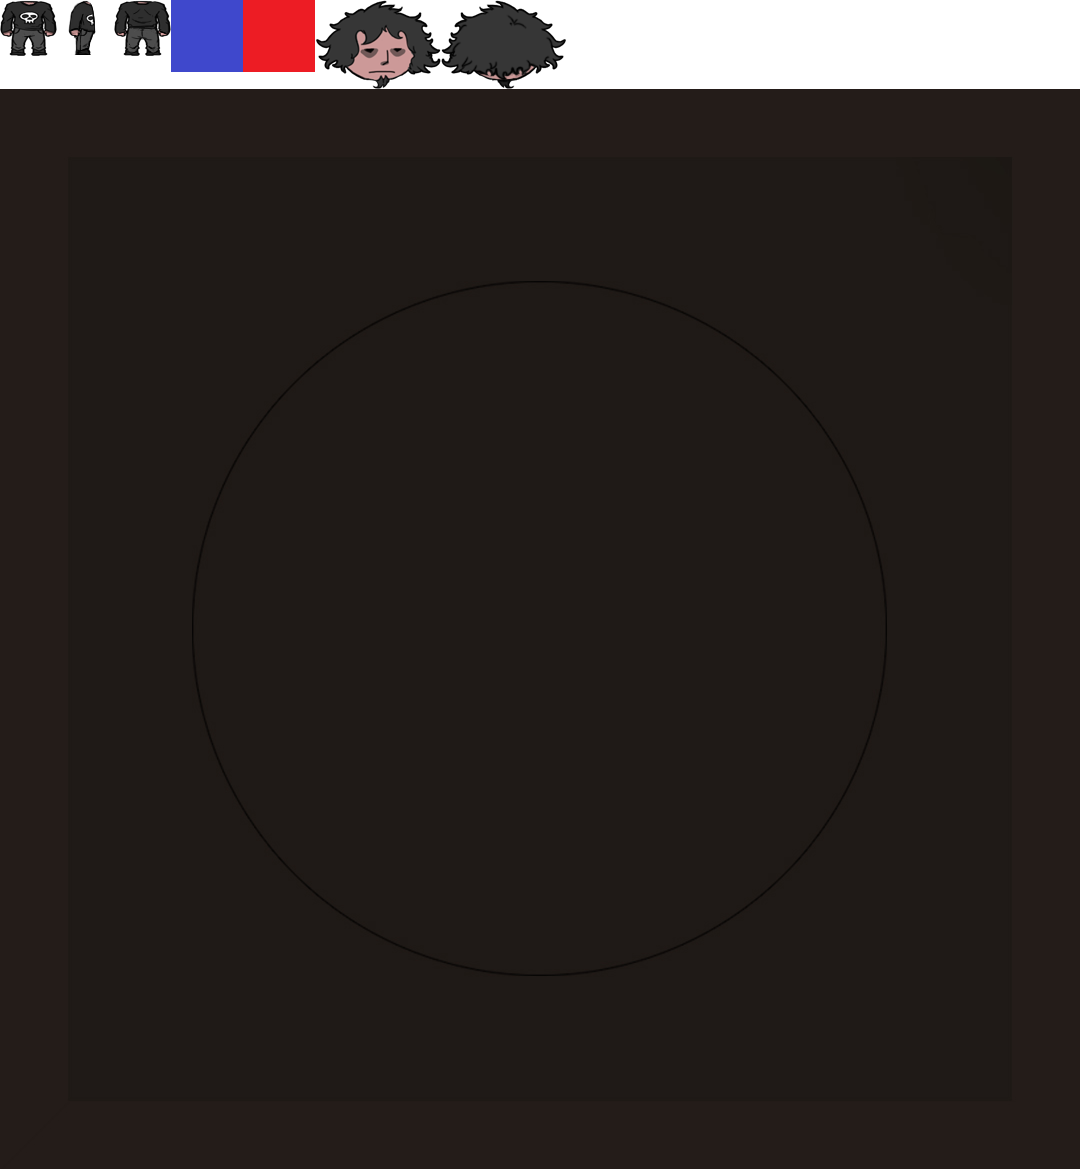
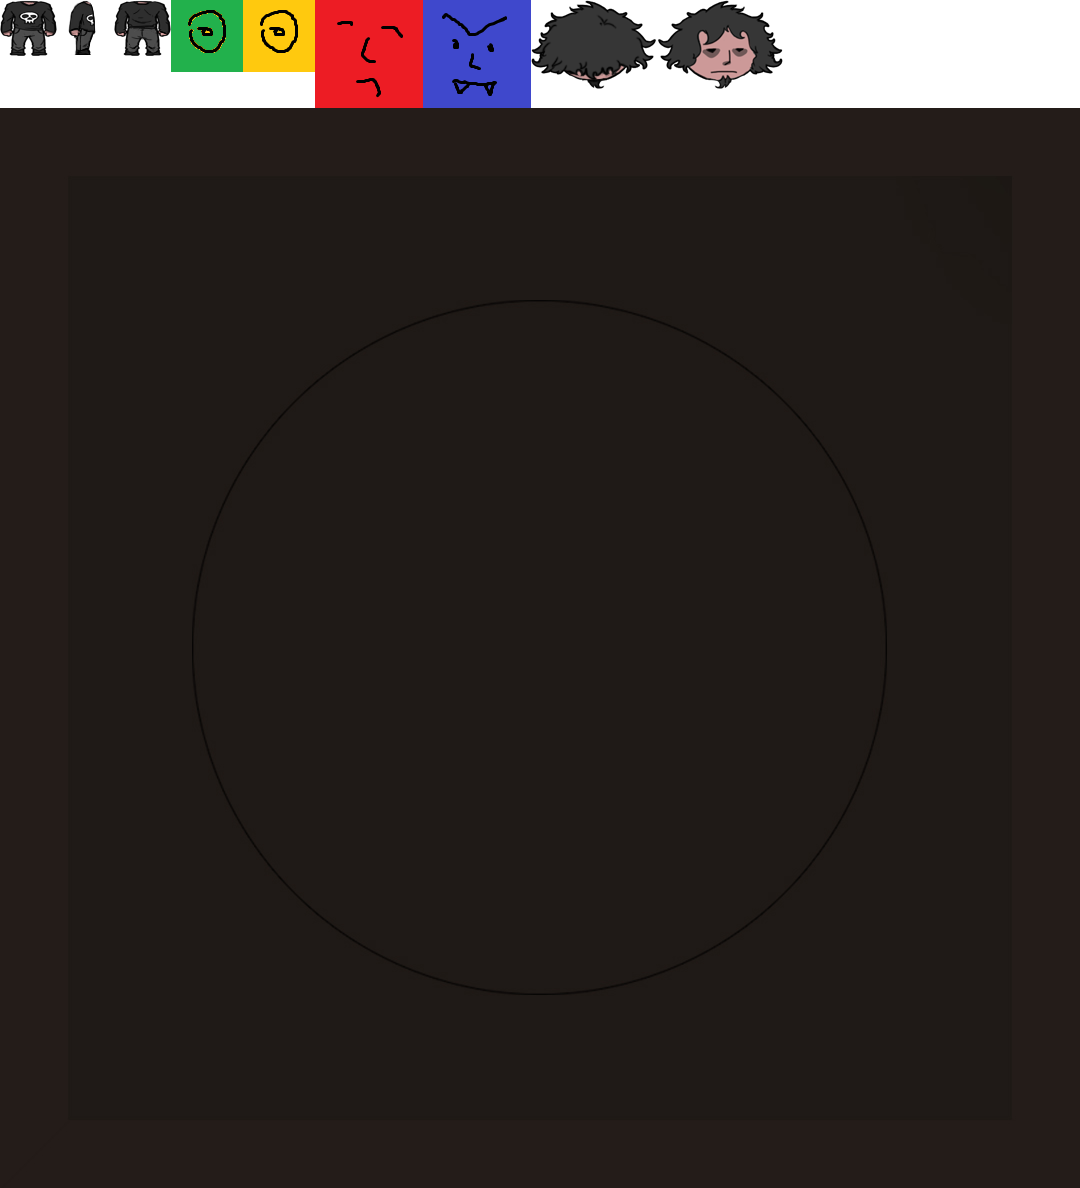
Targets and little graphics.

Changed region(s): [[0.0, 0.0, 1.0, 0.0924]]

diff --git a/core/src/com/retrom/ggj2016/game/World.java b/core/src/com/retrom/ggj2016/game/World.java
@@ -8,9 +8,11 @@ import com.badlogic.gdx.Input;
 import com.badlogic.gdx.graphics.g2d.SpriteBatch;
 import com.badlogic.gdx.graphics.glutils.ShapeRenderer;
 import com.badlogic.gdx.math.Vector2;
+import com.retrom.ggj2016.assets.Assets;
 import com.retrom.ggj2016.objects.BouncingBallEnemy;
 import com.retrom.ggj2016.objects.Enemy;
 import com.retrom.ggj2016.objects.Player;
+import com.retrom.ggj2016.objects.Target;
 import com.retrom.ggj2016.utils.utils;
 
 public class World {
@@ -20,13 +22,15 @@ public class World {
 		public void nextLevel();
 	}
 	
-	private static final float BLOOD_SEGMENT_LENGTH = 50f;
+	private static final float BLOOD_SEGMENT_LENGTH = 20f;
 	
 	private Player player = new Player();
 	
 	private List<PaintingLine> bloodLines = new ArrayList<PaintingLine>();
 	
 	private List<Enemy> enemies = new ArrayList<Enemy>();
+	
+	private List<Target> targets = new ArrayList<Target>();
 	
 	private Vector2 lastPosition;
 
@@ -47,6 +51,10 @@ public class World {
 			Vector2 pos = utils.randomDir(400);
 			enemies.add(new BouncingBallEnemy(pos.x, pos.y));
 		}
+		for (int i=0; i < level + 1; i++) {
+			Vector2 pos = utils.randomDir(400);
+			targets.add(new Target(pos.x, pos.y));
+		}
 		// TODO Auto-generated method stub
 		
 	}
@@ -60,9 +68,19 @@ public class World {
 		for (Enemy enemy : enemies) {
 			if (enemy.bounds.overlaps(player.bounds)) {
 				listener_.restart();
-				System.out.println("HIT");
 			}
 			enemy.update(deltaTime);
+		}
+		
+		for (Target target : targets) {
+			if (target.bounds.overlaps(player.bounds)) {
+				System.out.println("target taken");
+				target.take();
+			}
+		}
+		
+		if (allTargetsTaken()) {
+			listener_.nextLevel();
 		}
 		
 		if (Gdx.input.isKeyJustPressed(Input.Keys.R)) {
@@ -73,11 +91,27 @@ public class World {
 		}
 	}
 	
+	private boolean allTargetsTaken() {
+		for (Target target : targets) {
+			if (!target.taken()) {
+				return false;
+			}
+		}
+		return true;
+	}
+
 	public void render(SpriteBatch batch, ShapeRenderer shapeRenderer) {
+		batch.begin();
+		utils.drawCenter(batch, Assets.bg, 0, 0);
+		batch.end();
+		
 		for (PaintingLine line : bloodLines) {
 			line.render(shapeRenderer);
 		}
 		batch.begin();
+		for (Target target : targets) {
+			target.render(batch);
+		}
 		player.render(batch);
 		for (Enemy enemy : enemies) {
 			enemy.render(batch);

diff --git a/core/src/com/retrom/ggj2016/assets/Assets.java b/core/src/com/retrom/ggj2016/assets/Assets.java
@@ -5,12 +5,28 @@ import com.badlogic.gdx.graphics.g2d.TextureAtlas;
 
 public class Assets {
 	
-	public static Sprite player;
+	public static Sprite bg;
+	
+	public static Sprite playerHead;
+	public static Sprite playerFront;
+	public static Sprite playerSide;
+	public static Sprite playerBack;
 	public static Sprite enemy;
+	public static Sprite target;
+	public static Sprite taken;
 	
 	public static void init() {
 		TextureAtlas basicSheet = new TextureAtlas("basic.txt");
-		player = basicSheet.createSprite("player");
+		
+		bg = basicSheet.createSprite("bg");
+		
+		playerHead = basicSheet.createSprite("Player_head_front");
+		playerFront = basicSheet.createSprite("Player_body_front");
+		playerSide = basicSheet.createSprite("Player_body_side");
+		playerBack = basicSheet.createSprite("Player_body_back");
+		
 		enemy = basicSheet.createSprite("enemy");
+		target = basicSheet.createSprite("target");
+		taken = basicSheet.createSprite("taken");
 	}
 }

diff --git a/core/src/com/retrom/ggj2016/screens/GameScreen.java b/core/src/com/retrom/ggj2016/screens/GameScreen.java
@@ -27,12 +27,12 @@ public class GameScreen extends ScreenAdapter implements Screen {
 	
 	World world_;
 	
-	int level_ = 0;
+	final int level_;
 	
 	boolean isPaused_ = false;
-	private int level;
 	
 	public GameScreen(int level) {
+		System.out.println("GameScreen level="+level);
 		level_ = level;
 	}
 
@@ -42,15 +42,15 @@ public class GameScreen extends ScreenAdapter implements Screen {
 			
 			@Override
 			public void restart() {
-				level = 0;
-				((Game)Gdx.app.getApplicationListener()).setScreen(new GameScreen(level));
+				((Game)Gdx.app.getApplicationListener()).setScreen(new GameScreen(0));
 			}
 
 			@Override
 			public void nextLevel() {
-				((Game)Gdx.app.getApplicationListener()).setScreen(new GameScreen(level+1));
+				System.out.println("level+1="+(level_+1));
+				((Game)Gdx.app.getApplicationListener()).setScreen(new GameScreen(level_+1));
 			}
-		}, level);
+		}, level_);
 	}
 
 	@Override

diff --git a/core/src/com/retrom/ggj2016/objects/Player.java b/core/src/com/retrom/ggj2016/objects/Player.java
@@ -40,13 +40,23 @@ public class Player extends DynamicGameObject {
 		bounds.y = position.y - bounds.height / 2;
 	}
 	
-	@Override
-	public Sprite getSprite() {
-		return Assets.player;
-	}
-
 	public void render(SpriteBatch batch) {
-		utils.drawCenter(batch, Assets.player, position.x, position.y);
+		Sprite s;
+		if (velocity.y > 0) {
+			s = Assets.playerBack;
+		} else if (velocity.y < 0) {
+			s = Assets.playerFront;
+		} else if (velocity.x > 0) {
+			s = Assets.playerSide;
+			s.setFlip(false, false);
+		} else if (velocity.x < 0) {
+			s = Assets.playerSide;
+			s.setFlip(true, false);
+		} else {
+			s = Assets.playerFront;
+		}
+		utils.drawCenter(batch, s, position.x, position.y);
+		utils.drawCenter(batch, Assets.playerHead, position.x, position.y + 57);
 	}
 
 }

diff --git a/core/src/com/retrom/ggj2016/objects/Target.java b/core/src/com/retrom/ggj2016/objects/Target.java
@@ -1,0 +1,30 @@
+package com.retrom.ggj2016.objects;
+
+import com.badlogic.gdx.graphics.g2d.Sprite;
+import com.badlogic.gdx.graphics.g2d.SpriteBatch;
+import com.retrom.ggj2016.assets.Assets;
+import com.retrom.ggj2016.utils.utils;
+
+public class Target extends GameObject {
+	private boolean isTaken;
+	
+	private static final float TARGET_SIZE = 40;
+	
+	public Target(float x, float y) {
+		super(x, y, TARGET_SIZE, TARGET_SIZE);
+	}
+	
+	public void take() {
+		isTaken = true;
+	}
+	
+	public boolean taken() {
+		return isTaken;
+	}
+
+	
+	public void render(SpriteBatch batch) {
+		Sprite s = !isTaken ? Assets.target : Assets.taken;
+		utils.drawCenter(batch, s, position.x, position.y);
+	}
+}

diff --git a/desktop/src/com/retrom/ggj2016/desktop/DesktopLauncher.java b/desktop/src/com/retrom/ggj2016/desktop/DesktopLauncher.java
@@ -7,7 +7,7 @@ import com.retrom.ggj2016.GGJ2016;
 public class DesktopLauncher {
 	public static void main (String[] arg) {
 		LwjglApplicationConfiguration config = new LwjglApplicationConfiguration();
-		config.width = config.height = 540;
+		config.width = config.height = 800;
 		new LwjglApplication(new GGJ2016(), config);
 	}
 }

diff --git a/core/src/com/retrom/ggj2016/game/WorldRenderer.java b/core/src/com/retrom/ggj2016/game/WorldRenderer.java
@@ -78,7 +78,7 @@ public class WorldRenderer {
 		batch.enableBlending();
 		batch.begin();
 		
-		drawCenter(Assets.player, 100, 100);
+//		drawCenter(Assets.player, 100, 100);
 		batch.end();
 	}
 
